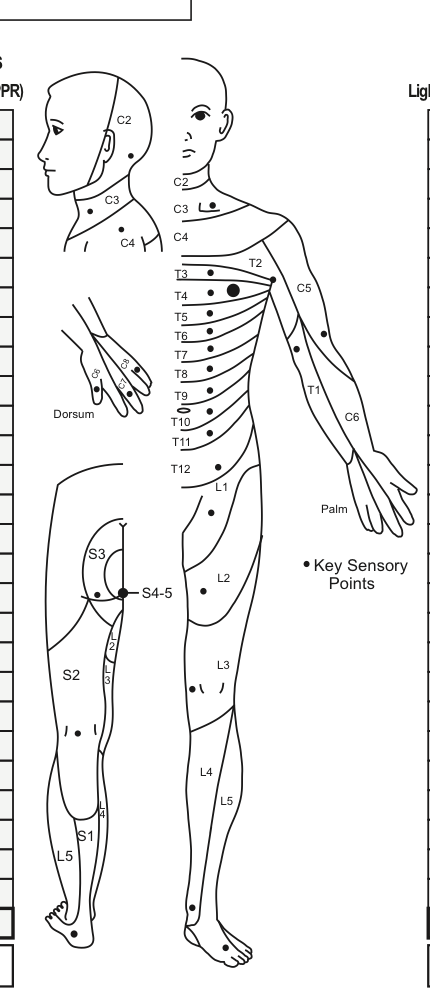
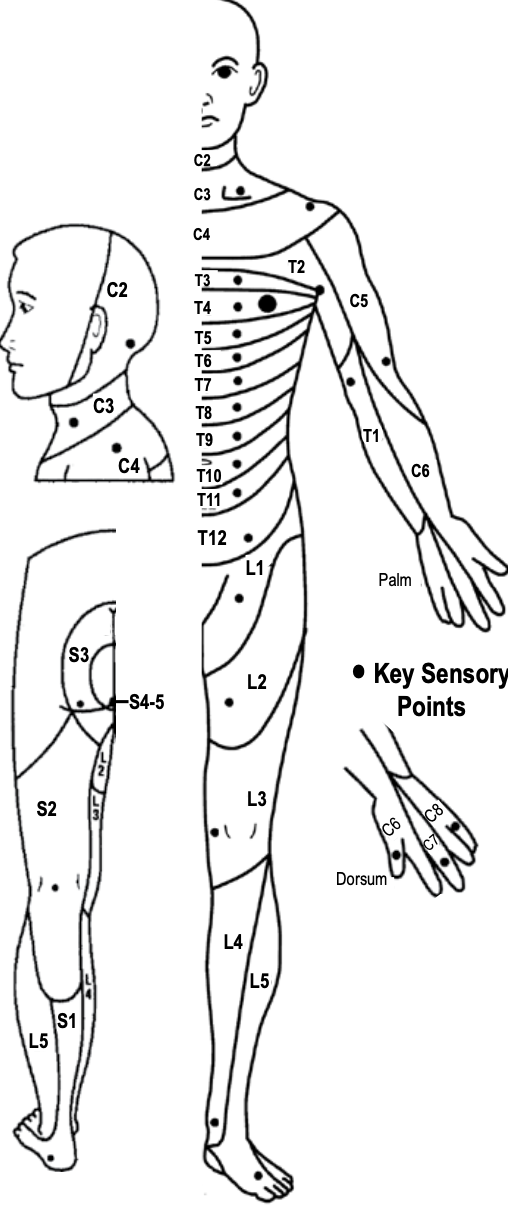
Update Parkinson assessment and bump to v2.3

Changed region(s): [[0.0, 0.0, 1.0, 0.992]]

diff --git a/public/style.css b/public/style.css
@@ -584,17 +584,31 @@ button.subtle:hover { background: var(--surface-tint); color: var(--fg); }
 
 .home-create-grid {
   display: grid;
-  grid-template-columns: minmax(190px, 1.05fr) minmax(160px, 0.8fr) minmax(260px, 1.25fr) minmax(104px, auto);
+  grid-template-columns: repeat(3, minmax(0, 1fr)) auto;
   gap: 14px;
   align-items: end;
 }
 
 .home-field {
   margin: 0;
+  display: grid;
+  grid-template-rows: auto minmax(46px, auto);
+  align-content: end;
   font-size: 14px;
   line-height: 1.2;
   font-weight: 700;
   color: #2b3b3b;
+}
+
+.home-field-label,
+.home-date-label {
+  min-height: 18px;
+}
+
+.home-date-wrap {
+  display: grid;
+  grid-template-rows: auto minmax(46px, auto);
+  align-content: end;
 }
 
 .home-date-label {
@@ -963,7 +977,7 @@ button.subtle:hover { background: var(--surface-tint); color: var(--fg); }
   }
 
   .home-create-grid {
-    grid-template-columns: minmax(150px, 1fr) minmax(145px, 0.82fr) minmax(220px, 1.25fr) minmax(88px, auto);
+    grid-template-columns: repeat(3, minmax(0, 1fr)) auto;
     gap: 10px;
   }
 
@@ -1041,6 +1055,15 @@ button.subtle:hover { background: var(--surface-tint); color: var(--fg); }
   .home-history-actions {
     margin-left: auto;
     justify-content: flex-end;
+  }
+
+  .composite-row.attendance-mobility-row {
+    grid-template-columns: minmax(0, 1fr) auto;
+    align-items: center;
+  }
+
+  .attendance-mobility-row .composite-part:nth-child(3) {
+    justify-self: end;
   }
 }
 
@@ -1977,7 +2000,8 @@ table.subscore.fes-subscore tr:last-child td {
 table.subscore.fes-subscore .si-label {
   width: 66%;
   white-space: nowrap;
-  font-size: 12.5px;
+  font-size: 14px;
+  font-weight: 600;
 }
 table.subscore.fes-subscore .si-val {
   gap: 10px;
@@ -2145,6 +2169,13 @@ table.hdrs-table .hdrs-comp-level .hdrs-comp-name {
 .composite-row {
   display: flex; flex-wrap: wrap; gap: 10px 16px; align-items: center;
 }
+.composite-row.attendance-mobility-row {
+  display: grid;
+  grid-template-columns: max-content max-content max-content max-content;
+  gap: 8px 6px;
+  align-items: center;
+  justify-content: start;
+}
 .composite-part { display: flex; align-items: center; gap: 6px; font-size: 13.5px; }
 .composite-part input {
   width: 78px; padding: 6px 10px; font-size: 13px;
@@ -2157,9 +2188,32 @@ table.hdrs-table .hdrs-comp-level .hdrs-comp-name {
   display: inline-flex; align-items: center; gap: 8px; cursor: pointer;
 }
 .composite-checkbox-label .glabel {
-  color: var(--fg); font-size: 13.5px; font-weight: 600; letter-spacing: 0; text-transform: none;
+  color: var(--fg); font-size: 13.5px; font-weight: 500; letter-spacing: 0; text-transform: none;
 }
 .composite-part input.wide { width: 120px; }
+.attendance-mobility-row .composite-part {
+  min-width: 0;
+  flex-wrap: nowrap;
+}
+.attendance-mobility-row .composite-part input.wide {
+  width: auto;
+  min-width: 0;
+}
+.attendance-mobility-row .composite-part .glabel,
+.attendance-mobility-row .composite-checkbox-label .glabel {
+  white-space: nowrap;
+}
+.attendance-mobility-row .composite-part:first-child input.wide {
+  max-width: 140px;
+  width: 140px;
+}
+.attendance-mobility-row .composite-part:nth-child(3) input.wide {
+  max-width: 96px;
+  width: 96px;
+}
+.attendance-mobility-row .composite-part .suffix {
+  margin-left: 0;
+}
 .composite-part.extra-wide { flex: 1 1 280px; }
 .composite-part input.extra-wide { width: 100%; min-width: 280px; }
 .composite-part .suffix, .composite-part .prefix {
@@ -2468,6 +2522,14 @@ table.hdrs-table .hdrs-comp-level .hdrs-comp-name {
 @media (max-width: 560px) {
   .asia-sensory-grid {
     grid-template-columns: 1fr;
+  }
+
+  .composite-row.attendance-mobility-row {
+    grid-template-columns: 1fr;
+  }
+
+  .attendance-mobility-row .composite-part:nth-child(3) {
+    justify-self: start;
   }
 }
 

diff --git a/public/app.js b/public/app.js
@@ -2357,7 +2357,9 @@
           }
           wrap.appendChild(grid);
         } else {
-          const row = el('div', { class: 'composite-row' });
+          const rowClass = ['composite-row'];
+          if (q.id === 'attendance_mobility') rowClass.push('attendance-mobility-row');
+          const row = el('div', { class: rowClass.join(' ') });
           q.parts.forEach(p => {
             const part = el('div', { class: 'composite-part' });
             const applyPartVisibility = () => {
@@ -3128,9 +3130,10 @@
     attendance_mobility(q, a) {
       if (!a || typeof a !== 'object') return null;
       const bits = [];
-      if (a.come_with) bits.push(`Come with ${a.come_with}`);
+      if (a.come_alone) bits.push('Come alone');
+      else if (a.come_with) bits.push(`Come with ${a.come_with}`);
       if (a.on_wheelchair) bits.push('On wheelchair');
-      else if (a.walk_with) bits.push(`Walk with ${a.walk_with}`);
+      else if (a.walk_with) bits.push(`Walk ${a.walk_with}`);
       return bits.length ? bits.join('; ') + '.' : null;
     },
 
@@ -3243,9 +3246,10 @@
       return lines.length > 1 ? lines.join('\n') : null;
     },
 
-    lawton_summary(q, a) {
+    lawton_summary(q, a, allQs, answers) {
       if (isEmptyAnswer(q, a)) return null;
       const total = Object.values(a).reduce((sum, v) => sum + (typeof v === 'number' ? v : 0), 0);
+      const assistBy = answers && answers.lawton_assist_by ? String(answers.lawton_assist_by).trim() : '';
       const itemMax = 3;
       const rows = (q.items || []).map(it => {
         const v = typeof a[it.id] === 'number' ? a[it.id] : 0;
@@ -3253,7 +3257,7 @@
       });
       return [
         '',
-        `IADL: Lawton IADL: ${total}/${q.totalMax}`,
+        `IADL: Lawton IADL: ${total}/${q.totalMax}${assistBy ? ` (Assist by ${assistBy})` : ''}`,
         rows.slice(0, 4).join('   '),
         rows.slice(4).join('   '),
       ].join('\n');

diff --git a/public/index.html b/public/index.html
@@ -28,7 +28,7 @@
   <section class="home-panel home-create">
     <h2 class="home-heading">Create New Case</h2>
     <div class="home-create-grid">
-      <label class="home-field home-case">Ward / Bed number / Initial
+      <label class="home-field home-case"><span class="home-field-label">Ward / Bed number / Initial</span>
         <input type="text" id="ncCaseId" placeholder="e.g. E8/12" />
       </label>
       <div class="home-field home-date-wrap">
@@ -38,7 +38,7 @@
         </div>
         <input type="text" id="ncDate" placeholder="e.g. 19 May 2026" />
       </div>
-      <label class="home-field home-form">Assessment Form
+      <label class="home-field home-form"><span class="home-field-label">Assessment Form</span>
         <select id="ncForm"><option value="">Select assessment form</option></select>
       </label>
       <button id="ncStart" class="home-create-btn" type="button">Create</button>
@@ -103,7 +103,7 @@
   </section>
 </template>
 
-<div id="version-badge">v2.2</div>
+<div id="version-badge">v2.3</div>
 <script src="app.js"></script>
 </body>
 </html>